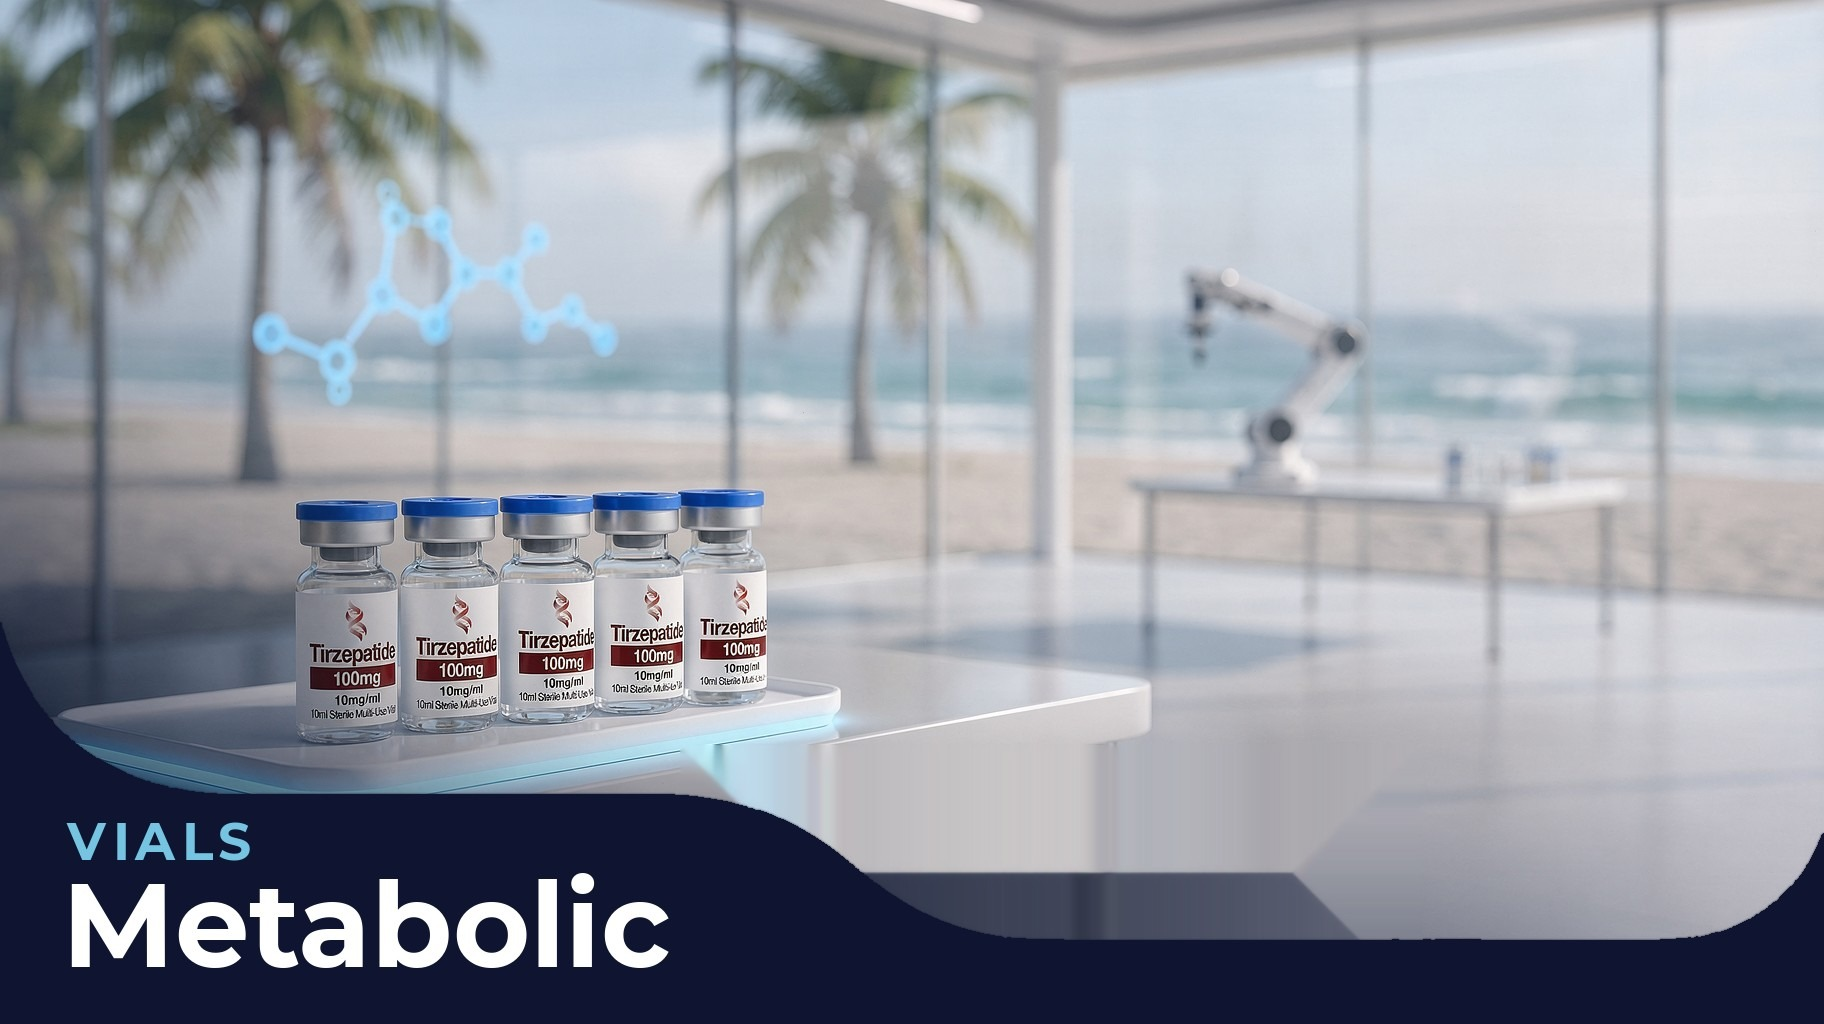
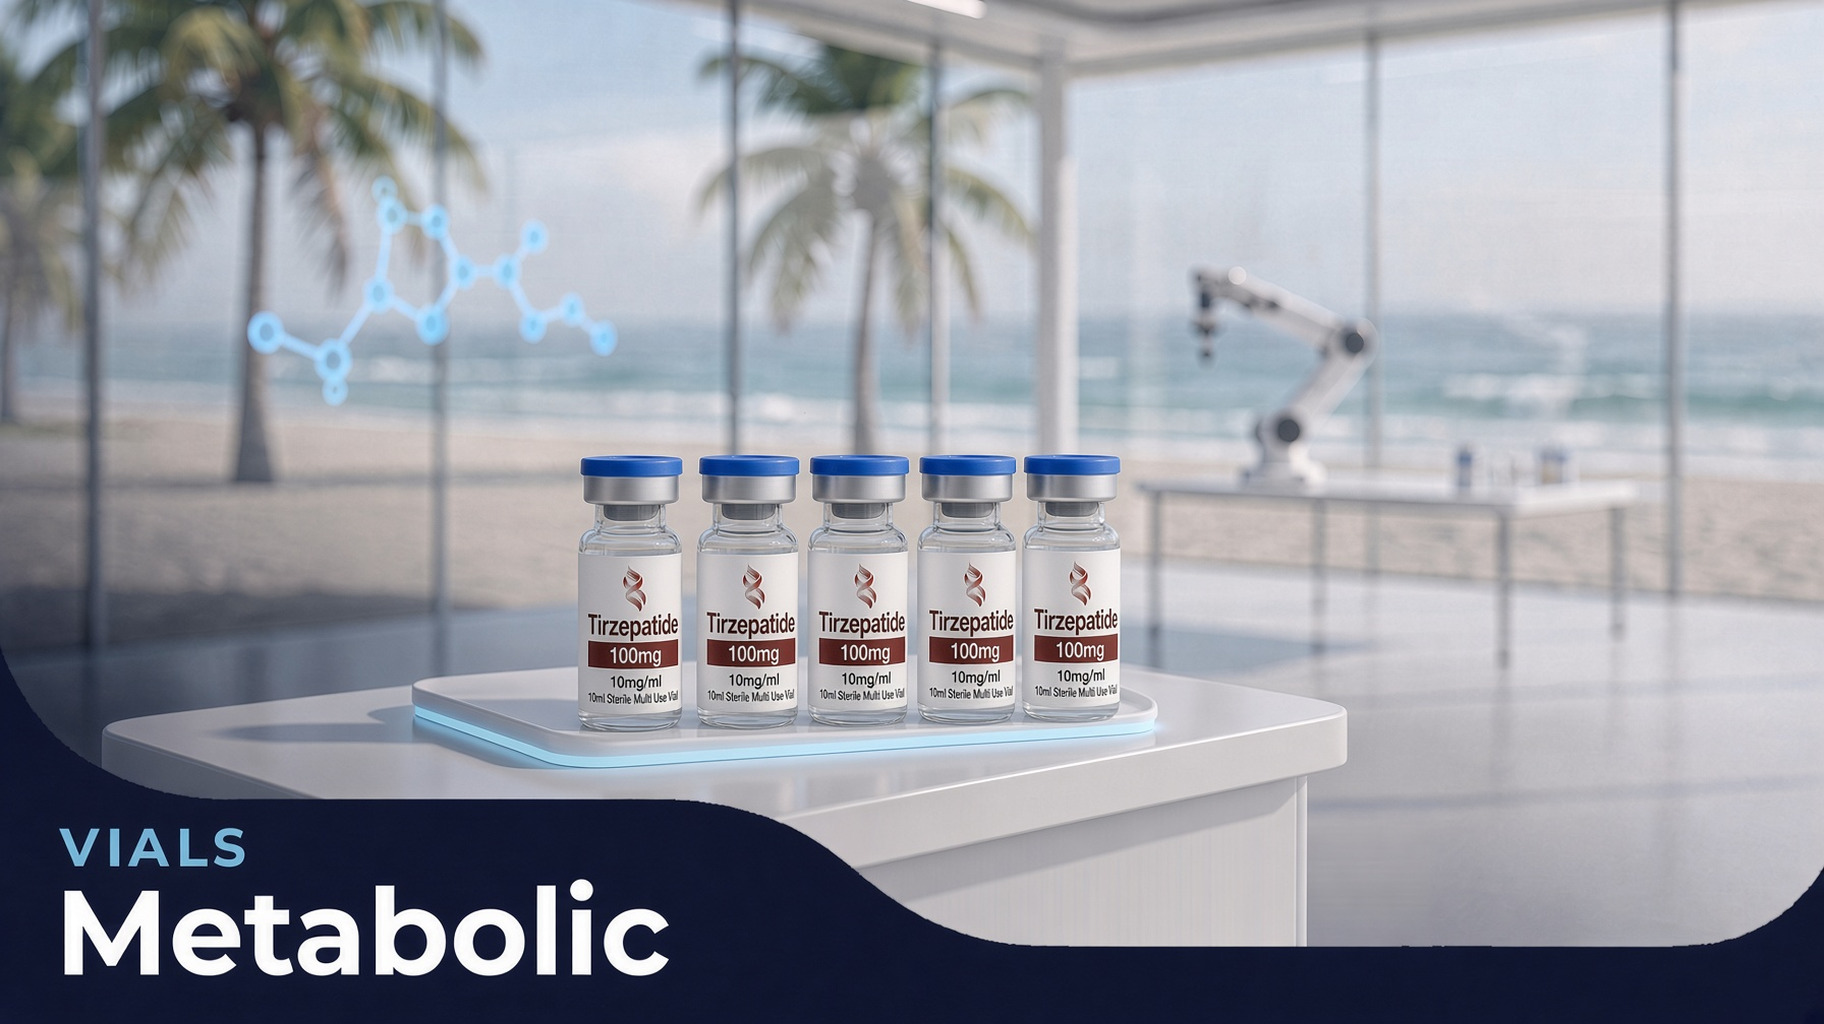
Replace the two homepage vial tiles. (#116)
Theme 2.10.90. Peptide Vials and Metabolic Vials use the new 1824x1024 images, copied unchanged.

diff --git a/woocommerce-migration/theme/palmbeach-vitality/style.css b/woocommerce-migration/theme/palmbeach-vitality/style.css
@@ -3,7 +3,7 @@ Theme Name: Palm Beach Vitality
 Theme URI: https://palmbeach-vitality.store
 Author: Palm Beach Vitality
 Description: WooCommerce storefront matched to the Shopify homepage — announcement bar, 2.35:1 logo banner, centered lab hero, FAQ accordion.
-Version: 2.10.89
+Version: 2.10.90
 Requires at least: 6.4
 Requires PHP: 8.1
 Text Domain: palmbeach-vitality

diff --git a/woocommerce-migration/theme/palmbeach-vitality/functions.php b/woocommerce-migration/theme/palmbeach-vitality/functions.php
@@ -9,7 +9,7 @@ if (!defined('ABSPATH')) {
     exit;
 }
 
-define('PBV_THEME_VERSION', '2.10.89');
+define('PBV_THEME_VERSION', '2.10.90');
 define('PBV_SEED_VERSION', '2.5.4');
 define('PBV_MENU_FIX_VERSION', '2.7.1');
 define('PBV_ANNOUNCE_FIX_VERSION', '2.10.72');
